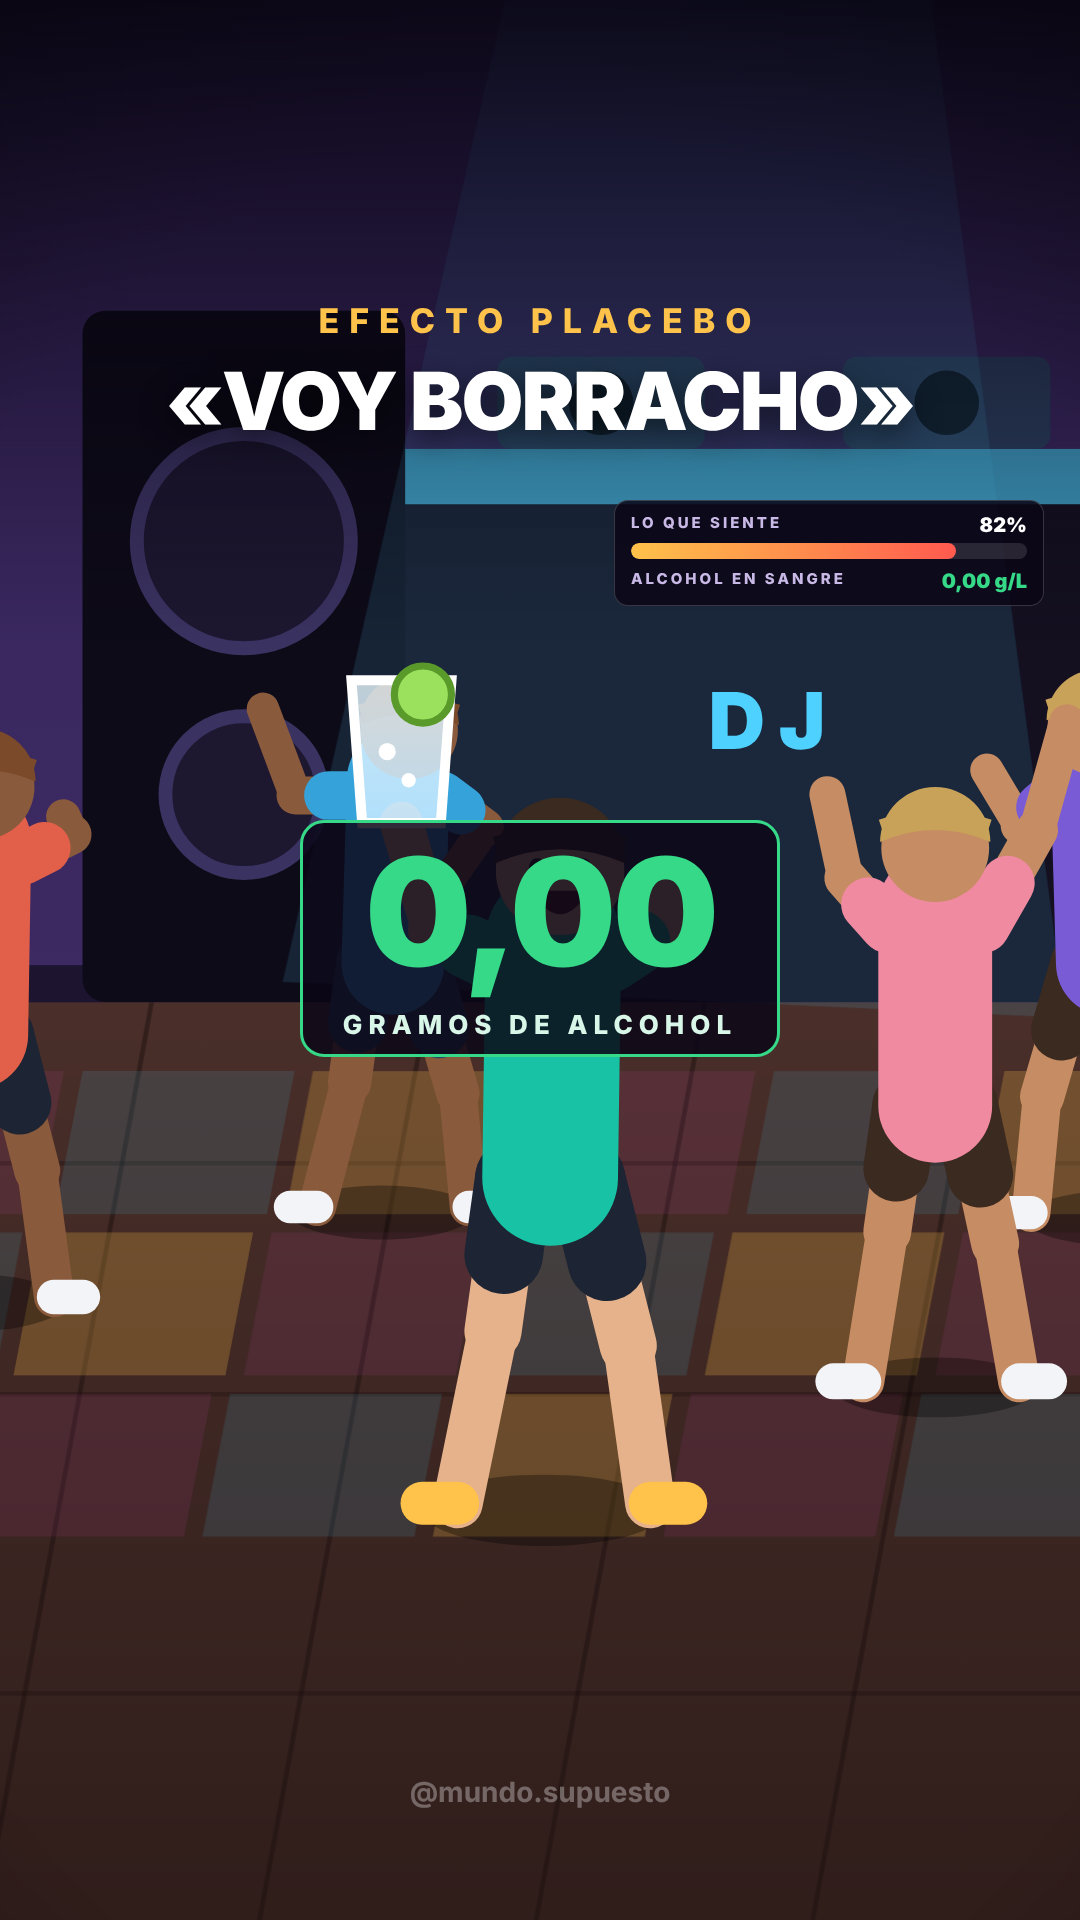
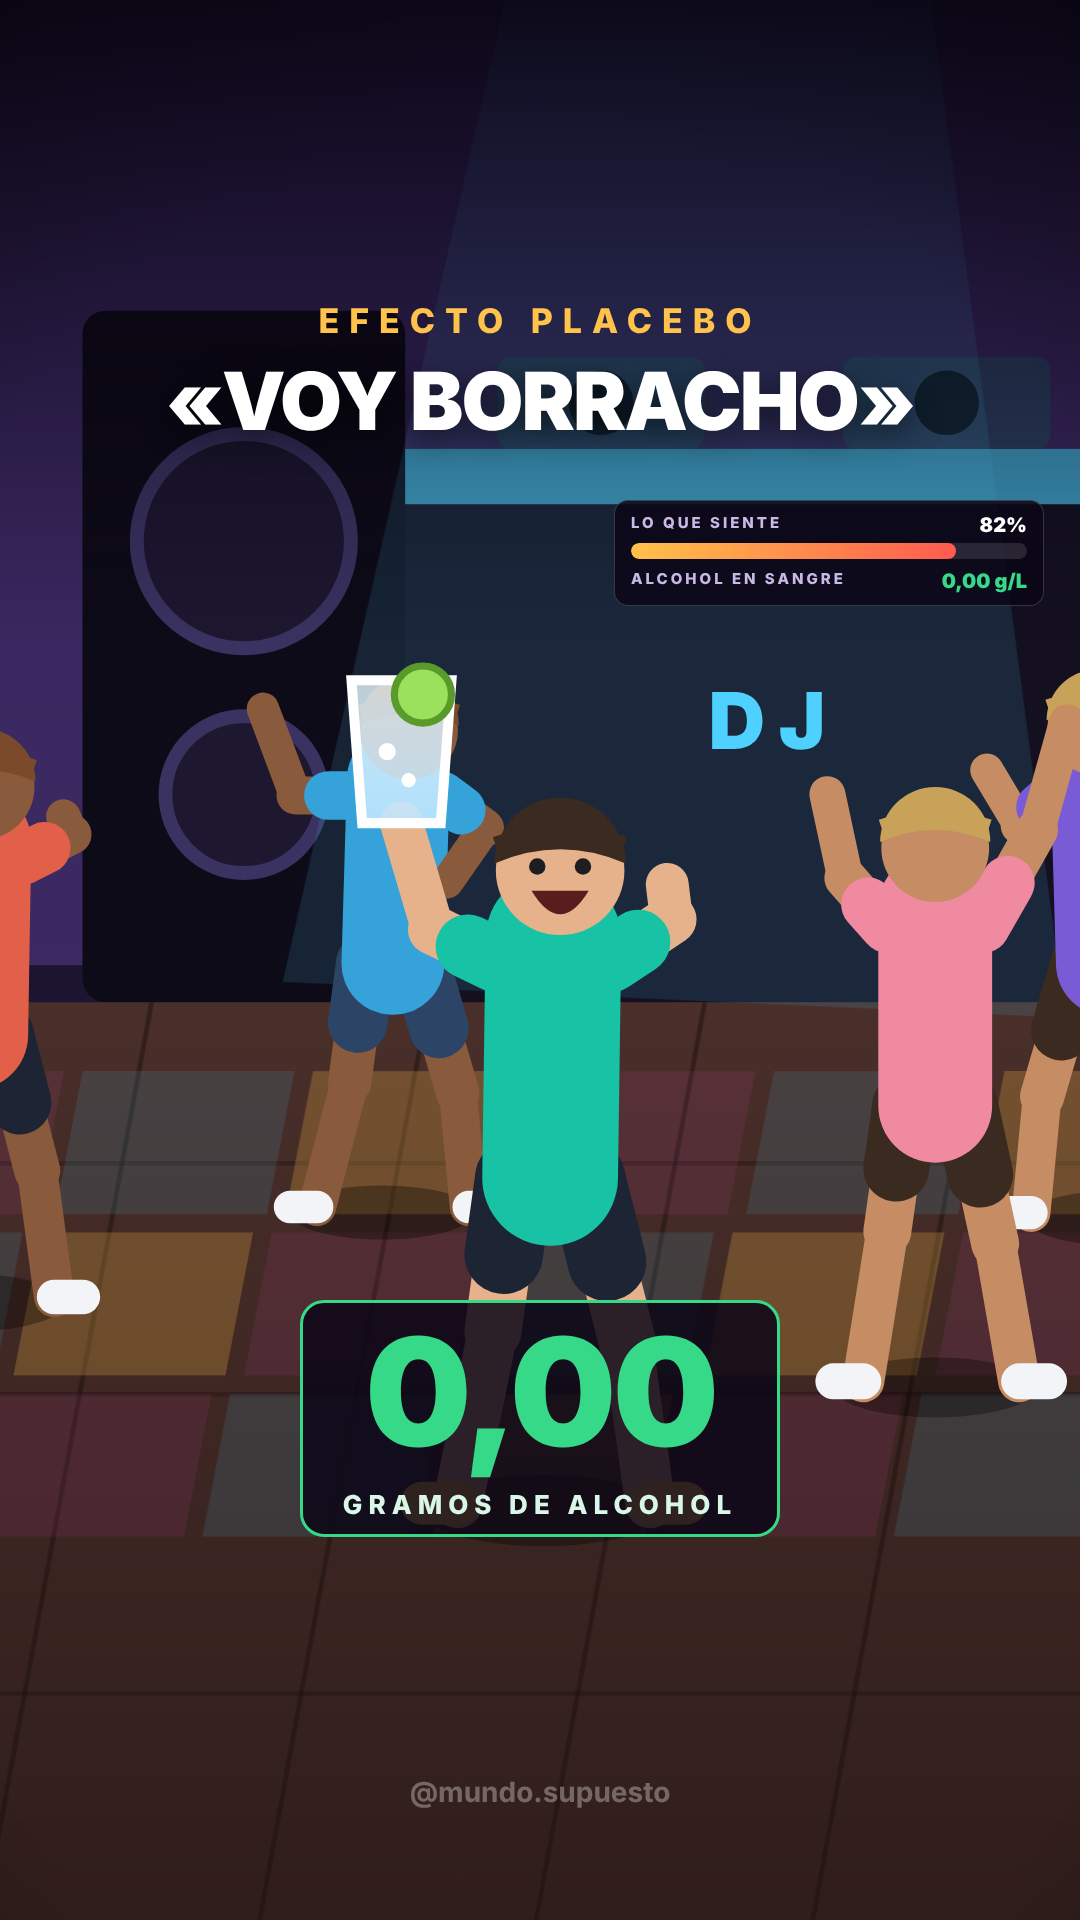
Placebo v2: miniatura con la cara visible
Claude-Session: https://claude.ai/code/session_01FgZK386kKeQpy1Cb9CVWWu

Changed region(s): [[0.275, 0.6562, 0.7333, 0.8125], [0.275, 0.4062, 0.7333, 0.5625]]

diff --git a/quiz-video/animado/placebo/miniatura/hacer.js b/quiz-video/animado/placebo/miniatura/hacer.js
@@ -15,7 +15,7 @@ const path = require('path');
       <div style="position:absolute;left:0;right:0;top:300px">
         <div style="font:800 34px Inter;letter-spacing:10px;color:#ffc24a">EFECTO PLACEBO</div>
         <div style="margin-top:18px;font:900 80px/1.05 Inter;letter-spacing:-2px;color:#fff;text-shadow:0 8px 30px rgba(0,0,0,0.6)">«VOY BORRACHO»</div></div>
-      <div style="position:absolute;left:0;right:0;top:820px">
+      <div style="position:absolute;left:0;right:0;top:1300px">
         <div style="display:inline-block;padding:14px 40px;border-radius:24px;background:rgba(10,6,22,0.85);border:3px solid #35d987">
           <div style="font:900 150px/1 Inter;letter-spacing:-4px;color:#35d987">0,00</div>
           <div style="margin-top:22px;font:800 26px Inter;letter-spacing:6px;color:#d9f7e8">GRAMOS DE ALCOHOL</div></div></div>`;
